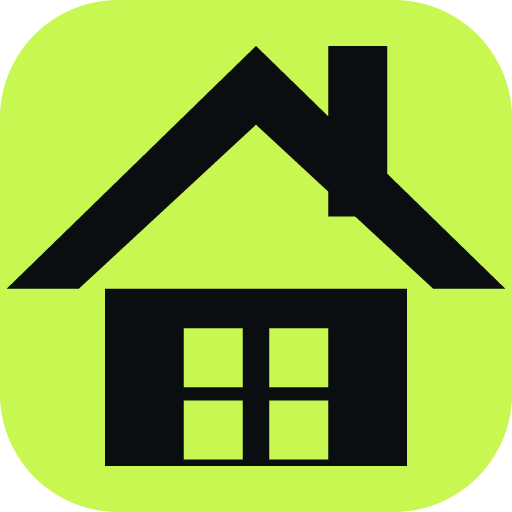
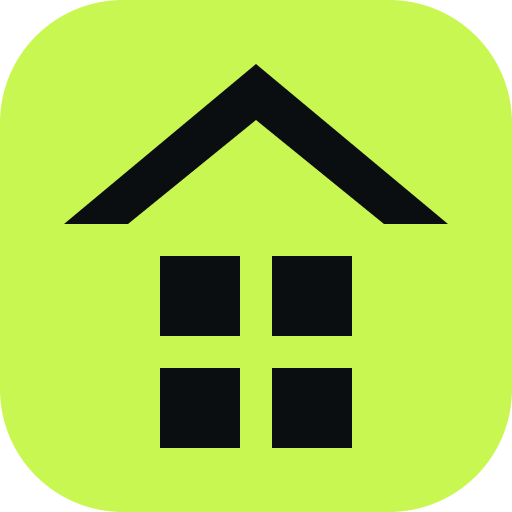
fix(brand): redraw the mark and match it to the loading screen
The old logo was a literal house with a chimney, off-centre in its tile and
reading as clip art rather than a designed mark. It is now a roof chevron
over the four tiles of a field -- geometric, evenly margined on a 64px box,
and legible at favicon size.

Geometry lives in Brand.tsx as exported constants that favicon.svg and the
icon generator transcribe, so the tab icon can no longer drift from the
in-app mark.

The boot splash was bare "Loading season..." text, so cold start flashed
unstyled text and then popped a logo in. It now uses the same mark, wordmark
and background as the launch screen, unanimated -- it can be on screen for
two frames or two seconds, and a pop that restarts when the launch screen
mounts looks broken. Launch timings pulled in to match.

diff --git a/src/components/Brand.tsx b/src/components/Brand.tsx
@@ -1,86 +1,138 @@
 /**
- * The mark: a lime tile with a house whose roof is a robot arm and whose
- * windows are the four squares of a field. Drawn rather than raster so it is
- * crisp at 22px in the rail and 300px on the launch screen.
+ * The mark: a house whose windows are the four tiles of a field — "FTC Home".
+ *
+ * Geometry lives here as the single source of truth; `scripts/generate-icons.mjs`
+ * and `public/favicon.svg` transcribe these same numbers, so the favicon can
+ * never drift from the in-app mark.
+ *
+ * Drawn on a 64×64 grid with an even 8px margin on every side.
  */
-export function Brand({ size = 34, plate = true }: { size?: number; plate?: boolean }) {
-  const glyph = (
-    <svg
-      width={Math.round(size * 0.62)}
-      height={Math.round(size * 0.58)}
-      viewBox="0 0 78 72"
-      aria-hidden="true"
-      style={{ display: 'block' }}
-    >
-      <rect x="50" y="4" width="9" height="26" fill="var(--srf-app)" />
-      <path d="M39 4 L77 41 L66 41 L39 16 L12 41 L1 41 Z" fill="var(--srf-app)" />
-      <path d="M16 41 H62 V68 H16 Z" fill="var(--srf-app)" />
-      <rect x="28" y="47" width="9" height="9" fill="var(--signal)" />
-      <rect x="41" y="47" width="9" height="9" fill="var(--signal)" />
-      <rect x="28" y="58" width="9" height="9" fill="var(--signal)" />
-      <rect x="41" y="58" width="9" height="9" fill="var(--signal)" />
-    </svg>
-  )
 
-  if (!plate) return glyph
+/**
+ * A roof chevron over the four tiles of a field — "home" and "the field", drawn
+ * as geometry rather than as a literal house, which read as clip art.
+ *
+ * Everything sits inside an 8px margin on a 64px box, so the mark is optically
+ * centred and never crowds the tile's corner radius.
+ */
+export const ROOF_PATH = 'M32 8 L56 28 L48 28 L32 15 L16 28 L8 28 Z'
 
+/** Four field tiles, 10px on a 4px gutter, centred under the roof. */
+export const TILES: [x: number, y: number][] = [
+  [20, 32],
+  [34, 32],
+  [20, 46],
+  [34, 46],
+]
+export const TILE_SIZE = 10
+
+/** Corner radius as a fraction of the tile edge. */
+export const TILE_RADIUS = 0.24
+
+function Glyph({ ink }: { ink: string }) {
   return (
-    <span
-      aria-hidden="true"
-      style={{
-        width: size,
-        height: size,
-        flex: 'none',
-        borderRadius: Math.round(size * 0.26),
-        background: 'var(--signal)',
-        display: 'grid',
-        placeItems: 'center',
-      }}
-    >
-      {glyph}
-    </span>
+    <>
+      <path d={ROOF_PATH} fill={ink} />
+      {TILES.map(([x, y]) => (
+        <rect key={`${x}-${y}`} x={x} y={y} width={TILE_SIZE} height={TILE_SIZE} rx="2" fill={ink} />
+      ))}
+    </>
   )
 }
 
-/** The launch-screen mark: bigger, on a soft lime halo, with the one-shot pop. */
-export function BrandLaunch({ size = 150, animate = true }: { size?: number; animate?: boolean }) {
+/**
+ * The mark on its lime tile. `plate={false}` gives the bare glyph for places
+ * that supply their own background.
+ */
+export function Brand({
+  size = 34,
+  plate = true,
+  tile = 'var(--signal)',
+  ink = 'var(--srf-app)',
+}: {
+  size?: number
+  plate?: boolean
+  tile?: string
+  ink?: string
+}) {
+  if (!plate) {
+    return (
+      <svg width={size} height={size} viewBox="0 0 64 64" aria-hidden="true" style={{ display: 'block' }}>
+        <Glyph ink={ink} />
+      </svg>
+    )
+  }
+
+  return (
+    <svg
+      width={size}
+      height={size}
+      viewBox="0 0 64 64"
+      aria-hidden="true"
+      style={{ display: 'block', flex: 'none' }}
+    >
+      <rect width="64" height="64" rx={64 * TILE_RADIUS} fill={tile} />
+      <Glyph ink={ink} />
+    </svg>
+  )
+}
+
+/**
+ * The launch mark: bigger, on a soft lime halo, with a single one-shot pop.
+ *
+ * Only transform and opacity animate, once, on one element — the launch costs a
+ * frame of work rather than a running animation, and `animate={false}` under
+ * reduced motion drops even that.
+ */
+export function BrandLaunch({ size = 132, animate = true }: { size?: number; animate?: boolean }) {
   return (
     <div
       style={{
         position: 'relative',
-        width: size * 2,
-        height: size * 2,
+        width: size * 2.1,
+        height: size * 2.1,
         display: 'grid',
         placeItems: 'center',
         borderRadius: '50%',
-        background:
-          'radial-gradient(circle at 50% 50%, rgba(200,247,81,.14) 0%, rgba(200,247,81,0) 62%)',
+        background: 'radial-gradient(circle at 50% 50%, rgba(200,247,81,.13) 0%, rgba(200,247,81,0) 64%)',
       }}
     >
-      <span
+      <div
         style={{
-          width: size,
-          height: size,
-          borderRadius: size * 0.26,
-          background: 'var(--signal)',
-          display: 'grid',
-          placeItems: 'center',
-          boxShadow: '0 18px 44px rgba(200,247,81,.14)',
-          animation: animate ? 'tilePop .7s cubic-bezier(.34,1.4,.4,1) both' : undefined,
+          filter: 'drop-shadow(0 18px 44px rgba(200,247,81,.16))',
+          animation: animate ? 'tilePop .68s cubic-bezier(.34,1.32,.4,1) both' : undefined,
         }}
       >
-        <svg width={size * 0.67} height={size * 0.62} viewBox="0 0 78 72" aria-hidden="true">
-          {/* The roof lifts once on cold start, like a lid. */}
-          <g style={{ animation: animate ? 'lidLift 1.6s cubic-bezier(.35,1.2,.4,1) .5s both' : undefined }}>
-            <rect x="50" y="4" width="9" height="26" fill="var(--srf-app)" />
-            <path d="M39 4 L77 41 L66 41 L39 16 L12 41 L1 41 Z" fill="var(--srf-app)" />
-          </g>
-          <path d="M16 41 H62 V68 H16 Z" fill="var(--srf-app)" />
-          <rect x="28" y="47" width="9" height="9" fill="var(--signal)" />
-          <rect x="41" y="47" width="9" height="9" fill="var(--signal)" />
-          <rect x="28" y="58" width="9" height="9" fill="var(--signal)" />
-          <rect x="41" y="58" width="9" height="9" fill="var(--signal)" />
-        </svg>
+        <Brand size={size} />
+      </div>
+    </div>
+  )
+}
+
+/** Wordmark used on the launch screen and the boot splash. */
+export function Wordmark({ animate = true, size = 44 }: { animate?: boolean; size?: number }) {
+  return (
+    <div style={{ display: 'flex', alignItems: 'baseline' }}>
+      <span
+        style={{
+          font: `600 ${size}px/1 var(--font-sans)`,
+          color: '#F2F0E9',
+          letterSpacing: '-0.02em',
+          animation: animate ? 'wordIn .5s cubic-bezier(.2,.8,.3,1) .42s both' : undefined,
+        }}
+      >
+        FTC
+      </span>
+      <span
+        style={{
+          font: `400 ${size}px/1 var(--font-sans)`,
+          color: '#8B9490',
+          letterSpacing: '-0.02em',
+          marginLeft: size * 0.09,
+          animation: animate ? 'wordIn .5s cubic-bezier(.2,.8,.3,1) .56s both' : undefined,
+        }}
+      >
+        Home
       </span>
     </div>
   )

diff --git a/src/screens/Launch.tsx b/src/screens/Launch.tsx
@@ -1,6 +1,6 @@
 import { useEffect, useState } from 'react'
 import { Navigate, useNavigate } from 'react-router-dom'
-import { BrandLaunch } from '@/components/Brand'
+import { BrandLaunch, Wordmark } from '@/components/Brand'
 import { Button } from '@/components/ui'
 import { useStore } from '@/store/useStore'
 import { isConfigured } from '@/domain/season'
@@ -46,28 +46,9 @@ export function LaunchScreen() {
     >
       <div style={{ flex: 1, display: 'grid', placeItems: 'center', minHeight: 0 }}>
         <div style={{ display: 'flex', flexDirection: 'column', alignItems: 'center' }}>
-          <BrandLaunch key={replayKey} size={150} animate={motion} />
-          <div style={{ display: 'flex', alignItems: 'baseline', marginTop: -12 }}>
-            <span
-              style={{
-                font: '500 46px/1 var(--font-sans)',
-                color: '#F2F0E9',
-                letterSpacing: '-0.01em',
-                animation: motion ? 'wordIn .55s cubic-bezier(.2,.8,.3,1) .55s both' : undefined,
-              }}
-            >
-              FTC
-            </span>
-            <span
-              style={{
-                font: '400 46px/1 var(--font-sans)',
-                color: '#8B9490',
-                letterSpacing: '-0.01em',
-                animation: motion ? 'wordIn .55s cubic-bezier(.2,.8,.3,1) .72s both' : undefined,
-              }}
-            >
-              Home
-            </span>
+          <BrandLaunch key={replayKey} size={132} animate={motion} />
+          <div style={{ marginTop: 4 }}>
+            <Wordmark animate={motion} />
           </div>
           <div
             style={{
@@ -75,7 +56,7 @@ export function LaunchScreen() {
               color: 'var(--ink-rail)',
               letterSpacing: '0.3em',
               marginTop: 16,
-              animation: motion ? 'fadeIn .6s ease 1.05s both' : undefined,
+              animation: motion ? 'fadeIn .5s ease .78s both' : undefined,
             }}
           >
             ONE PLACE. ALL SEASON.
@@ -90,7 +71,7 @@ export function LaunchScreen() {
           display: 'flex',
           flexDirection: 'column',
           gap: 10,
-          animation: motion ? 'fadeIn .5s ease 1.2s both' : undefined,
+          animation: motion ? 'fadeIn .5s ease .92s both' : undefined,
         }}
       >
         {configured ? (

diff --git a/src/App.tsx b/src/App.tsx
@@ -3,6 +3,7 @@ import { BrowserRouter, Navigate, Route, Routes, useLocation } from 'react-route
 import { AppShell } from '@/components/AppShell'
 import { useStore, flushPendingSave } from '@/store/useStore'
 import { requestPersistence } from '@/lib/media'
+import { BrandLaunch, Wordmark } from '@/components/Brand'
 
 import { LaunchScreen } from '@/screens/Launch'
 import { TeamAccessScreen } from '@/screens/auth/TeamAccess'
@@ -124,17 +125,31 @@ export function App() {
   )
 }
 
+/**
+ * Shown while IndexedDB opens. Deliberately the same mark, wordmark and
+ * background as the launch screen, so the handover between them is invisible
+ * rather than a flash of unstyled text followed by a logo popping in.
+ */
 function BootSplash() {
   return (
     <div
       style={{
         minHeight: '100dvh',
-        display: 'grid',
-        placeItems: 'center',
-        background: 'var(--srf-void)',
+        display: 'flex',
+        flexDirection: 'column',
+        alignItems: 'center',
+        justifyContent: 'center',
+        gap: 4,
+        background: 'radial-gradient(520px 420px at 50% 38%, #16191C 0%, #08090A 70%)',
       }}
     >
-      <span className="label">Loading season…</span>
+      {/* No animation: this can be on screen for two frames or two seconds, and
+          a pop that restarts when the real launch screen mounts looks broken. */}
+      <BrandLaunch size={132} animate={false} />
+      <Wordmark animate={false} />
+      <span className="label" style={{ marginTop: 14, letterSpacing: '0.3em' }}>
+        ONE PLACE. ALL SEASON.
+      </span>
     </div>
   )
 }
